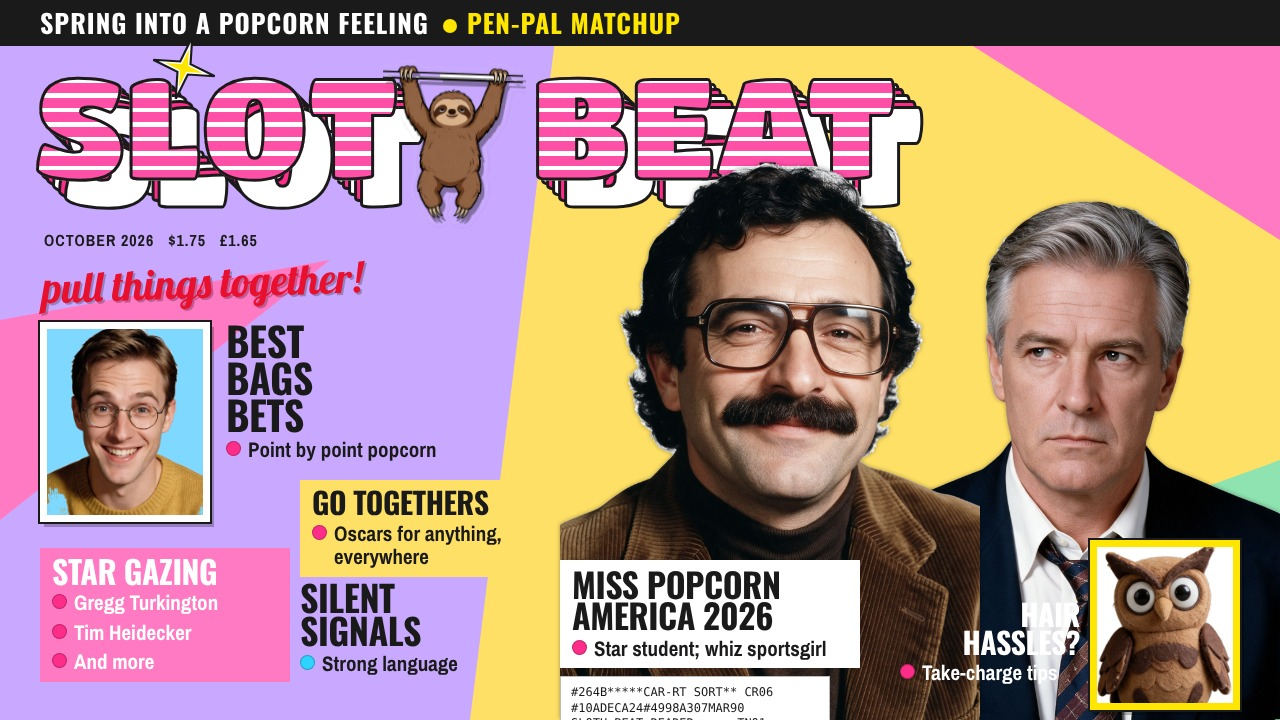
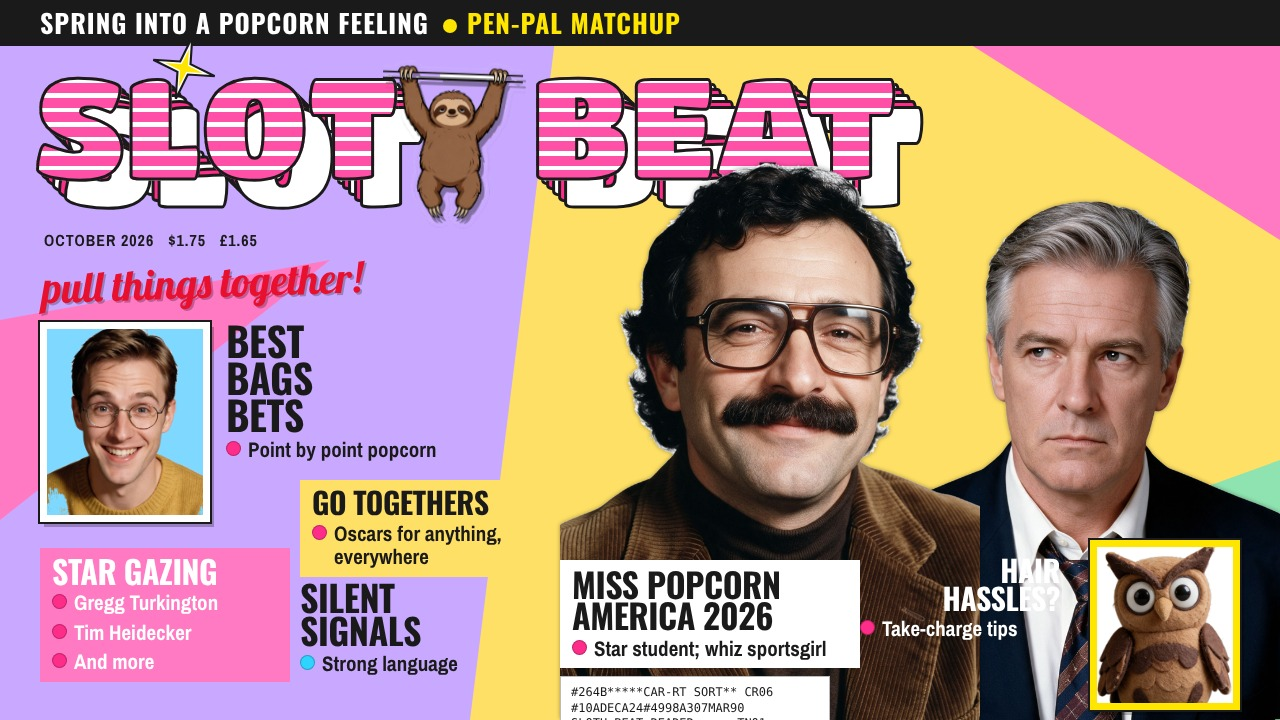
Sloth Beat v6: move a coverline off the white shirt
Claude-Session: https://claude.ai/code/session_019p8SwDYgnY8vbcMXRQhZJi

Changed region(s): [[0.6562, 0.7639, 0.8438, 0.9472]]

diff --git a/mockups/sloth_beat/03_on_cinema_v6.html b/mockups/sloth_beat/03_on_cinema_v6.html
@@ -5,5 +5,5 @@
 <div class="topstrip">Spring into a popcorn feeling<i></i><b>Pen-pal matchup</b></div>
 <div class="mast"><span class="layer l0">SLOT<span class="h">H</span> BEAT</span><span class="layer l1">SLOT<span class="h">H</span> BEAT</span><span class="layer l2">SLOT<span class="h">H</span> BEAT</span><span class="layer l3">SLOT<span class="h">H</span> BEAT</span><span class="layer l4">SLOT<span class="h">H</span> BEAT</span><span class="layer front">SLOT<span class="h">H</span> BEAT</span><svg class="glint" viewBox="0 0 60 60"><path d="M30 0 L35 25 L60 30 L35 35 L30 60 L25 35 L0 30 L25 25 Z" fill="#fff" stroke="#1a1a1a" stroke-width="2"/><path d="M30 12 L33 27 L48 30 L33 33 L30 48 L27 33 L12 30 L27 27 Z" fill="#ffe600"/></svg></div><img class="sloth" src="sloth_h.png">
 <div class="dateline">OCTOBER 2026 &nbsp; $1.75 &nbsp; &pound;1.65</div>
-<img class="mainphoto" src="photo_d.png" style="left:560px;top:120px;width:420px;height:600px;z-index:5"><img class="mainphoto" src="photo_c.png" style="left:860px;top:100px;width:420px;height:620px;z-index:4"><div class="script" style="left:42px;top:262px;color:#e8102e;font-size:42px;transform:rotate(-2deg);z-index:8">pull things together!</div><div class="frame" style="left:40px;top:322px;width:170px;height:200px;background:#7fd8ff;border-color:#fff;z-index:6;transform:rotate(0deg)"><img src="photo_b.png"></div><div class="cl" style="left:226px;top:322px;width:300px;z-index:8;text-align:left;"><div class="head" style="color:#1a1a1a;font-size:40px">BEST<br>BAGS<br>BETS</div><div class="sub" style="color:#1a1a1a"><i style="background:#ff2d8a"></i>Point by point popcorn</div></div><div class="cl" style="left:40px;top:548px;width:250px;z-index:8;text-align:left;background:#ff7ac3;padding:8px 12px;"><div class="head" style="color:#fff;font-size:32px">STAR GAZING</div><div class="sub" style="color:#fff"><i style="background:#ff2d8a"></i>Gregg Turkington</div><div class="sub" style="color:#fff"><i style="background:#ff2d8a"></i>Tim Heidecker</div><div class="sub" style="color:#fff"><i style="background:#ff2d8a"></i>And more</div></div><div class="cl" style="left:300px;top:480px;width:240px;z-index:8;text-align:left;background:#ffe066;padding:8px 12px;"><div class="head" style="color:#1a1a1a;font-size:30px">GO TOGETHERS</div><div class="sub" style="color:#1a1a1a"><i style="background:#ff2d8a"></i>Oscars for anything, everywhere</div></div><div class="cl" style="left:300px;top:580px;width:240px;z-index:8;text-align:left;"><div class="head" style="color:#1a1a1a;font-size:36px">SILENT<br>SIGNALS</div><div class="sub" style="color:#1a1a1a"><i style="background:#2fd3ff"></i>Strong language</div></div><div class="cl" style="left:560px;top:560px;width:300px;z-index:9;text-align:left;background:#fff;padding:8px 12px;"><div class="head" style="color:#1a1a1a;font-size:34px">MISS POPCORN<br>AMERICA 2026</div><div class="sub" style="color:#1a1a1a"><i style="background:#ff2d8a"></i>Star student; whiz sportsgirl</div></div><div class="frame" style="left:1090px;top:540px;width:150px;height:170px;background:#fff;border-color:#ffe600;z-index:9;transform:rotate(0deg)"><img src="photo_owl.png"></div><div class="cl" style="left:900px;top:600px;width:180px;z-index:9;text-align:right;"><div class="head" style="color:#fff;font-size:30px">HAIR<br>HASSLES?</div><div class="sub" style="color:#fff"><i style="background:#ff2d8a"></i>Take-charge tips</div></div><div class="mail" style="left:560px;top:676px">#264B*****CAR-RT SORT** CR06<br>#10ADECA24#4998A307MAR90<br>SLOTH BEAT READER &nbsp;&nbsp;&nbsp;&nbsp; TN01<br>132 BAILEY RD &nbsp;&nbsp;&nbsp;&nbsp;&nbsp;&nbsp;&nbsp;&nbsp; 29<br>ROCKY HILL &nbsp;&nbsp;&nbsp;&nbsp;&nbsp; CT 06067</div>
+<img class="mainphoto" src="photo_d.png" style="left:560px;top:120px;width:420px;height:600px;z-index:5"><img class="mainphoto" src="photo_c.png" style="left:860px;top:100px;width:420px;height:620px;z-index:4"><div class="script" style="left:42px;top:262px;color:#e8102e;font-size:42px;transform:rotate(-2deg);z-index:8">pull things together!</div><div class="frame" style="left:40px;top:322px;width:170px;height:200px;background:#7fd8ff;border-color:#fff;z-index:6;transform:rotate(0deg)"><img src="photo_b.png"></div><div class="cl" style="left:226px;top:322px;width:300px;z-index:8;text-align:left;"><div class="head" style="color:#1a1a1a;font-size:40px">BEST<br>BAGS<br>BETS</div><div class="sub" style="color:#1a1a1a"><i style="background:#ff2d8a"></i>Point by point popcorn</div></div><div class="cl" style="left:40px;top:548px;width:250px;z-index:8;text-align:left;background:#ff7ac3;padding:8px 12px;"><div class="head" style="color:#fff;font-size:32px">STAR GAZING</div><div class="sub" style="color:#fff"><i style="background:#ff2d8a"></i>Gregg Turkington</div><div class="sub" style="color:#fff"><i style="background:#ff2d8a"></i>Tim Heidecker</div><div class="sub" style="color:#fff"><i style="background:#ff2d8a"></i>And more</div></div><div class="cl" style="left:300px;top:480px;width:240px;z-index:8;text-align:left;background:#ffe066;padding:8px 12px;"><div class="head" style="color:#1a1a1a;font-size:30px">GO TOGETHERS</div><div class="sub" style="color:#1a1a1a"><i style="background:#ff2d8a"></i>Oscars for anything, everywhere</div></div><div class="cl" style="left:300px;top:580px;width:240px;z-index:8;text-align:left;"><div class="head" style="color:#1a1a1a;font-size:36px">SILENT<br>SIGNALS</div><div class="sub" style="color:#1a1a1a"><i style="background:#2fd3ff"></i>Strong language</div></div><div class="cl" style="left:560px;top:560px;width:300px;z-index:9;text-align:left;background:#fff;padding:8px 12px;"><div class="head" style="color:#1a1a1a;font-size:34px">MISS POPCORN<br>AMERICA 2026</div><div class="sub" style="color:#1a1a1a"><i style="background:#ff2d8a"></i>Star student; whiz sportsgirl</div></div><div class="frame" style="left:1090px;top:540px;width:150px;height:170px;background:#fff;border-color:#ffe600;z-index:9;transform:rotate(0deg)"><img src="photo_owl.png"></div><div class="cl" style="left:860px;top:556px;width:200px;z-index:9;text-align:right;"><div class="head" style="color:#fff;font-size:30px">HAIR<br>HASSLES?</div><div class="sub" style="color:#fff"><i style="background:#ff2d8a"></i>Take-charge tips</div></div><div class="mail" style="left:560px;top:676px">#264B*****CAR-RT SORT** CR06<br>#10ADECA24#4998A307MAR90<br>SLOTH BEAT READER &nbsp;&nbsp;&nbsp;&nbsp; TN01<br>132 BAILEY RD &nbsp;&nbsp;&nbsp;&nbsp;&nbsp;&nbsp;&nbsp;&nbsp; 29<br>ROCKY HILL &nbsp;&nbsp;&nbsp;&nbsp;&nbsp; CT 06067</div>
 </div></body></html>
